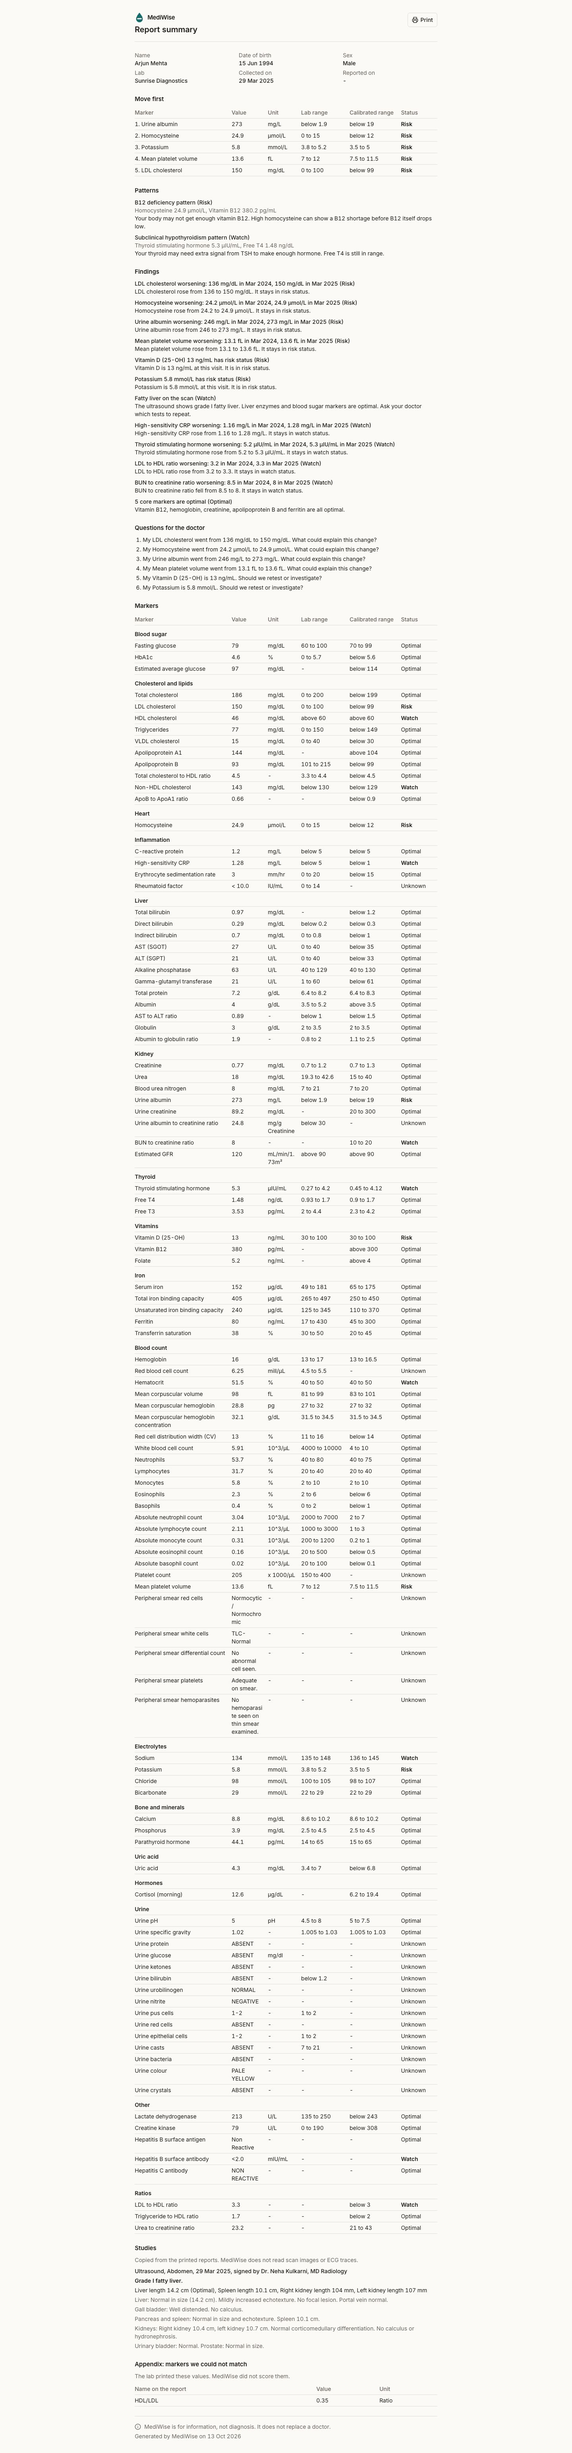
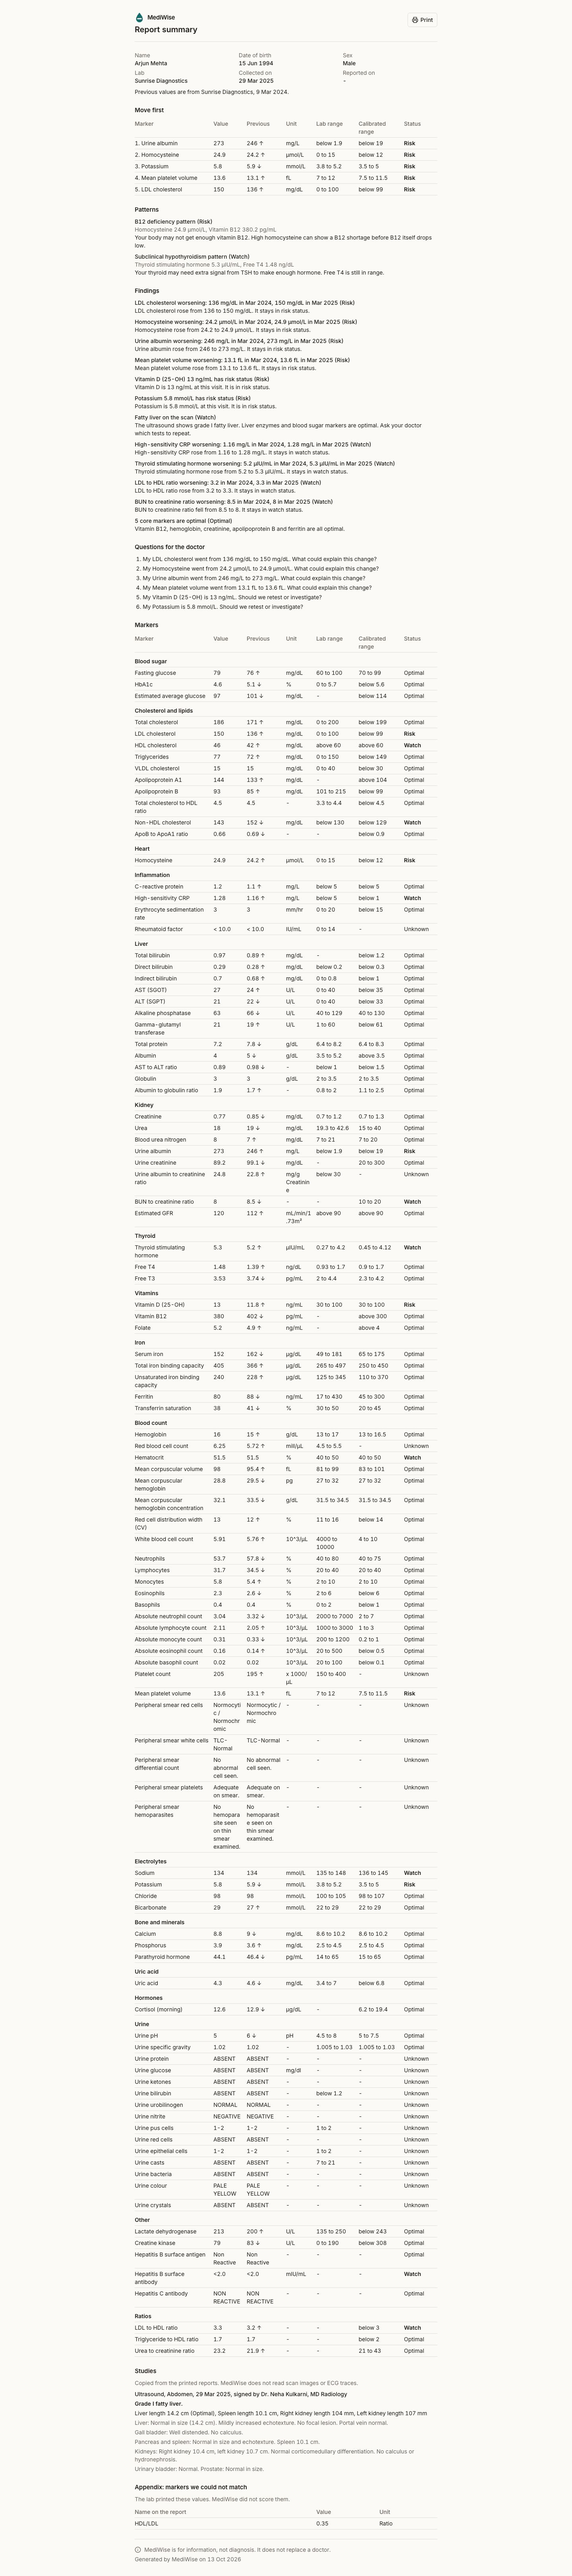
docs: doctor export screenshots with previous values (MEDI-53)

diff --git a/docs/DESIGN.md b/docs/DESIGN.md
@@ -177,6 +177,7 @@ Every screen uses the foundation above. The patterns below repeat across pages, 
 - **Sticky bars.** The marker filter on the report and the compare table header stick under the app header (`top-12`).
 - **Footer.** The app shell and the auth pages show the disclaimer once, with links to the four policy pages.
 - **Doctor export.** The export page sets `data-theme="light"`, so it stays black on white in both themes and in print.
+- **Previous values on the export (MEDI-53).** The Move first and Markers tables get a Previous column between Value and Unit. It shows the value from the profile's previous done report, with ↑ or ↓ when the printed values differ. The mark has a screen reader label ("Higher now", "Lower now"). One line under the profile block names the previous report. A first report shows no column and no line. The page fits A4 portrait with the column.
 
 Decisions:
 
@@ -201,7 +202,7 @@ Screenshots: the demo account (made-up profile "Arjun Mehta", the two sample rep
 | Profiles | [after](design/pages/after-profiles-light.jpg) | [after](design/pages/after-profiles-dark.jpg) | [after](design/pages/after-profiles-light-phone.jpg) |
 | Settings | [after](design/pages/after-settings-light.jpg) | [after](design/pages/after-settings-dark.jpg) | [after](design/pages/after-settings-light-phone.jpg) |
 | Credits | [after](design/pages/after-credits-light.jpg) | [after](design/pages/after-credits-dark.jpg) | [after](design/pages/after-credits-light-phone.jpg) |
-| Doctor export | [after](design/pages/after-export-light.jpg) | [after](design/pages/after-export-dark.jpg) | [after](design/pages/after-export-light-phone.jpg) |
+| Doctor export with previous values (29 Mar 2025, previous 9 Mar 2024, MEDI-53) | [after](design/pages/after-export-light.jpg) | [after](design/pages/after-export-dark.jpg) | [after](design/pages/after-export-light-phone.jpg) |
 | Sign in | [before](design/pages/before-login-light.jpg), [after](design/pages/after-login-light.jpg) | [before](design/pages/before-login-dark.jpg), [after](design/pages/after-login-dark.jpg) | [after](design/pages/after-login-light-phone.jpg) |
 | Create account | [before](design/pages/before-signup-light.jpg), [after](design/pages/after-signup-light.jpg) | [before](design/pages/before-signup-dark.jpg), [after](design/pages/after-signup-dark.jpg) | [after](design/pages/after-signup-light-phone.jpg) |
 | Forgot password | [before](design/pages/before-forgot-password-light.jpg), [after](design/pages/after-forgot-password-light.jpg) | [before](design/pages/before-forgot-password-dark.jpg), [after](design/pages/after-forgot-password-dark.jpg) | [after](design/pages/after-forgot-password-light-phone.jpg) |
